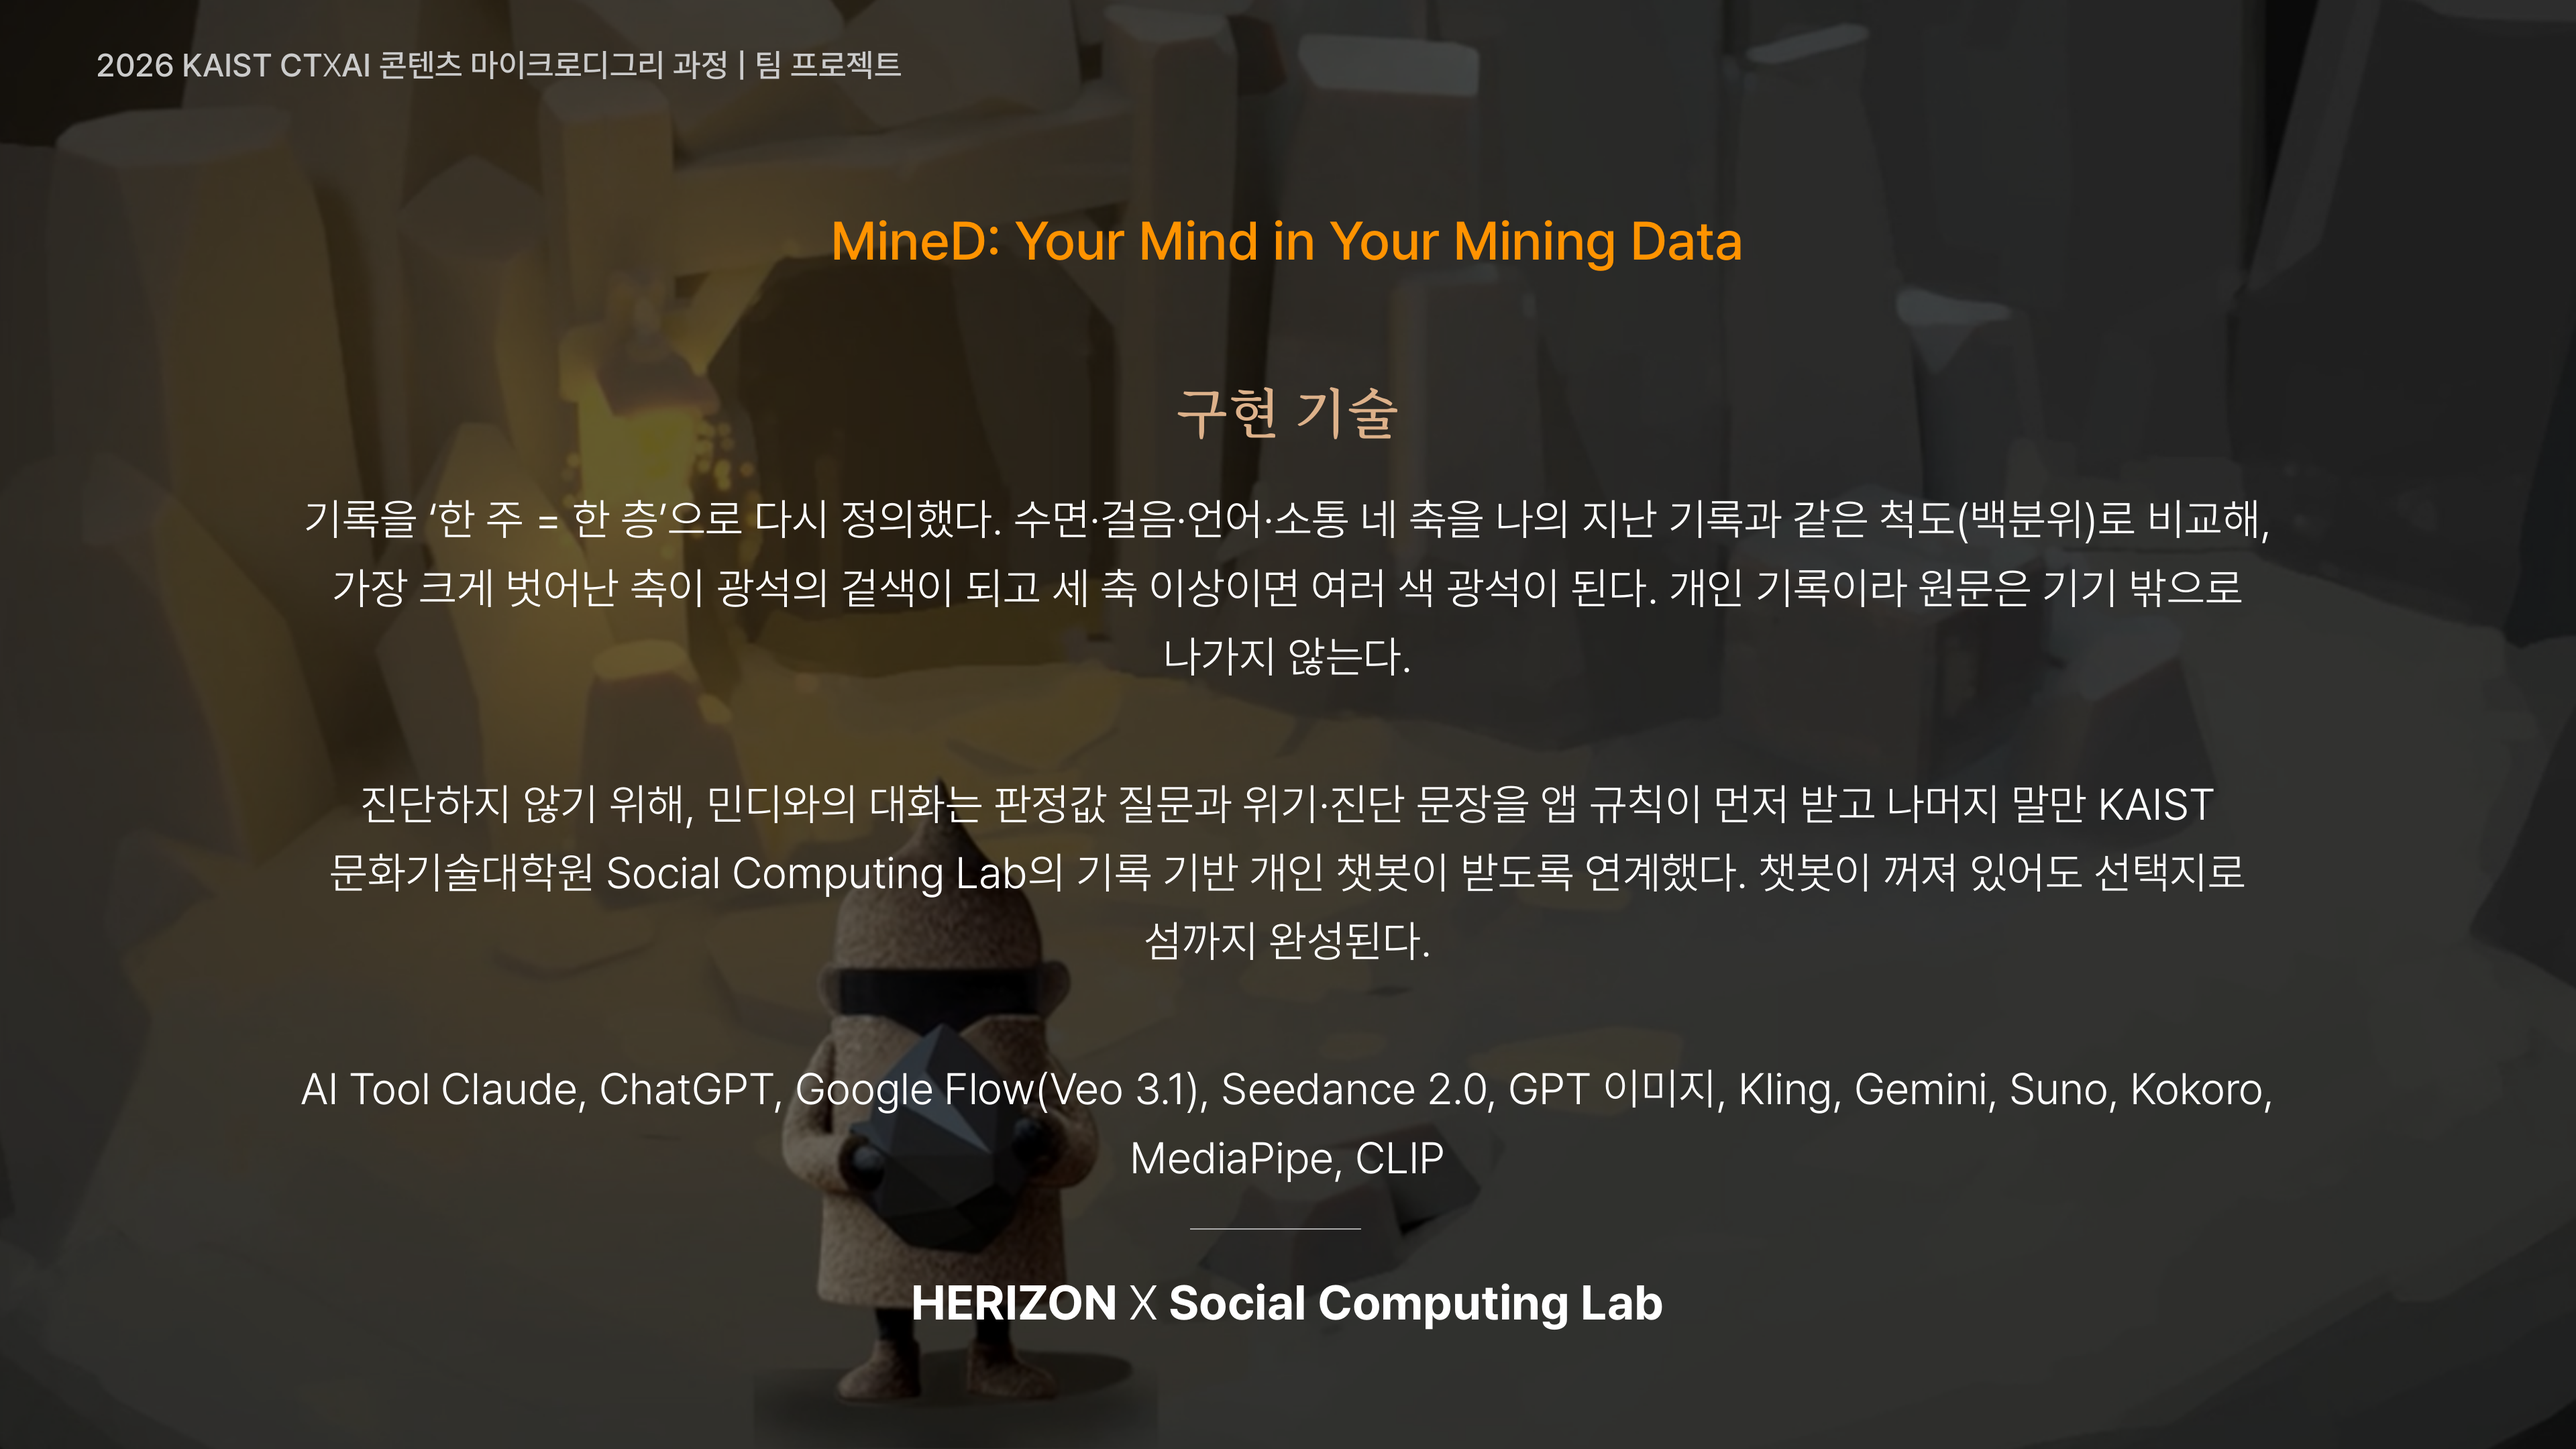
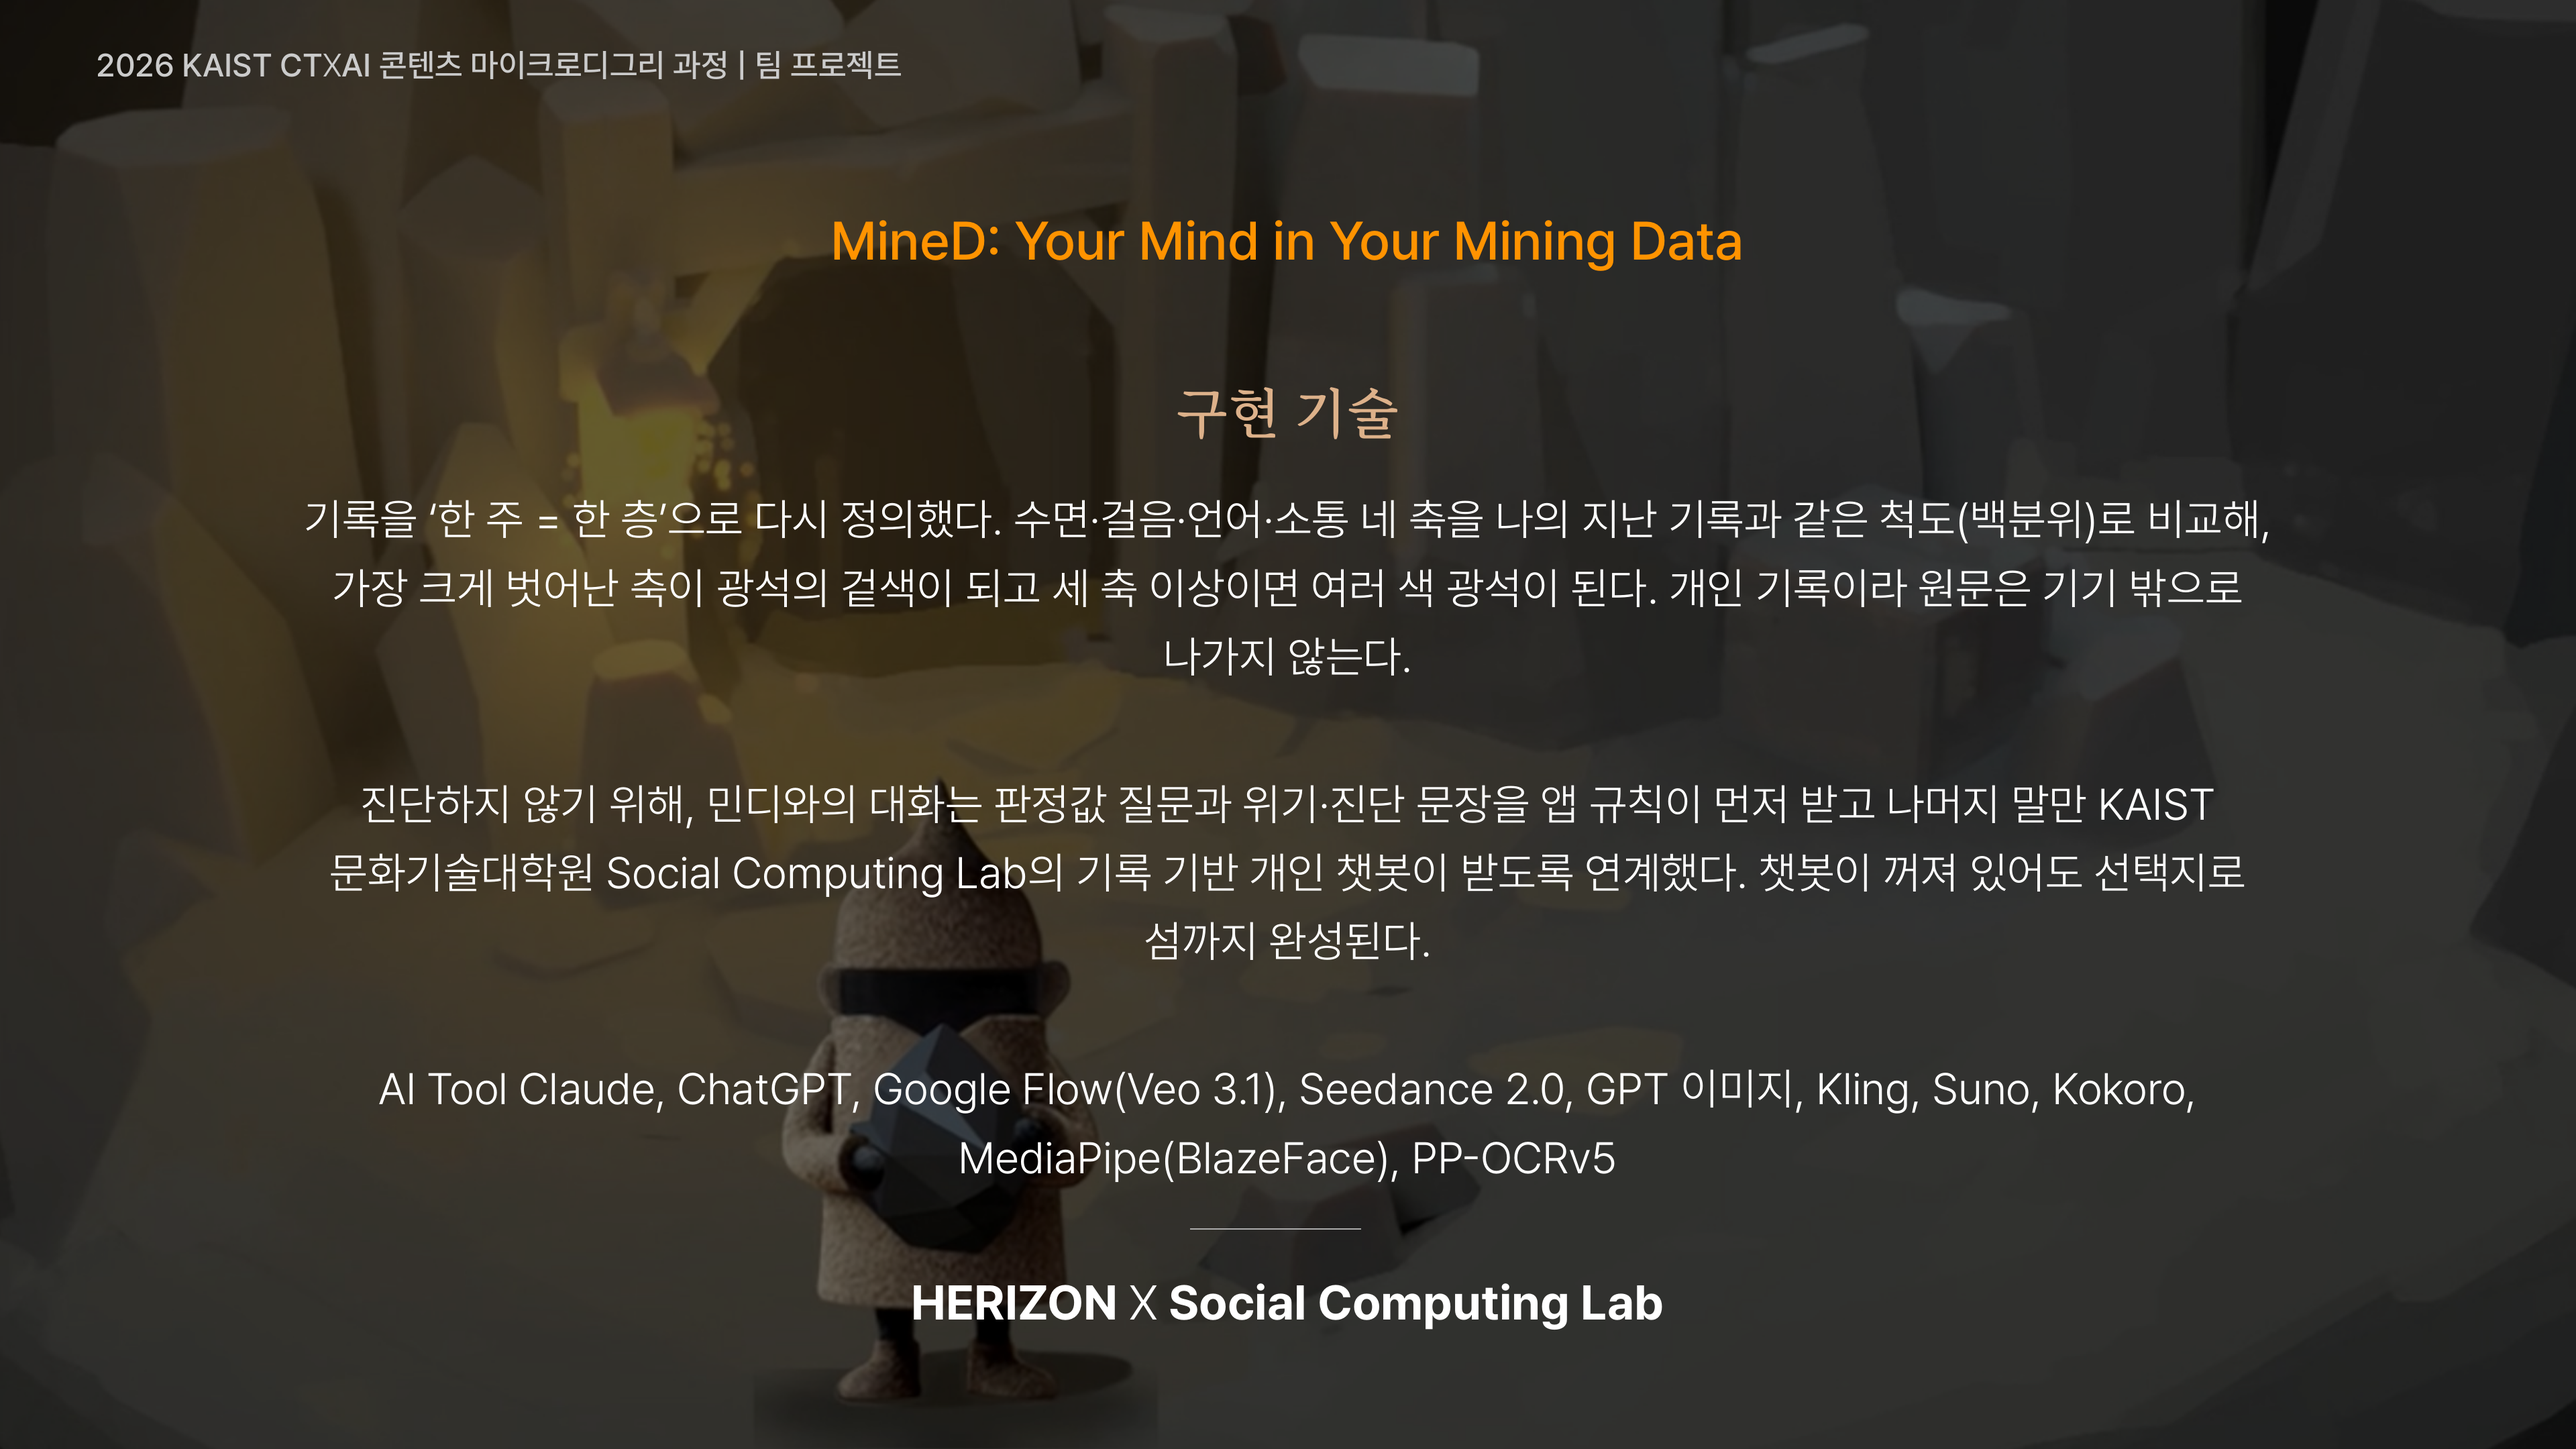
쇼케이스 v9: 섬 사운드 톤 정리(섬별 음량·EQ·압축), 음악방 배경음 겹침 줄임, AI Tool에서 Gemini·CLIP 제외
Claude-Session: https://claude.ai/code/session_01H6XxrjKT2zziYGGeC5Esr8

Changed region(s): [[0.125, 0.7444, 0.875, 0.8065]]

diff --git a/showcase/v0.5_kit/build5.py b/showcase/v0.5_kit/build5.py
@@ -242,6 +242,18 @@ def demo(out, DEMO=DEMO):
 ISLAND_CUTS = {'sky': [(4.4, 12.6), (30.5, 35.5)], 'jungle': [(6.0, 11.1), (27.0, 32.0)]}
 
 
+# 11/10 보별: 섬 소리가 거칠다 → 깔끔하고 평화로운 쉼. 생성 원음의 저역 웅웅·고역 치찰을 덜고,
+# 갑자기 튀는 효과음은 눌러, 모든 섬을 같은 낮은 크기(-30 LUFS)로. 음악(홈 곡)이 톤을 잡는다.
+# 맥 측정(11/10 v8 서브): 원음은 섬마다 약 -16 LUFS. 짧은 조각에 1패스 loudnorm은 게인이 흔들려서 고정 게인으로.
+ISLAND_EQ = {'sky': 'highpass=f=70,lowshelf=f=120:g=-4,',          # 66Hz 바람 드론 → 웅웅 덜기
+             'jungle': 'highshelf=f=6000:g=-6,lowpass=f=9000,',     # 빗소리 고음
+             'music': '', 'sea': '', 'onsen': ''}
+ISLAND_GAIN = {'music': -15.0, 'sea': -13.5, 'sky': -12.0, 'jungle': -14.5, 'onsen': -12.0}  # 약 -29~-30 LUFS
+def island_af(key):
+    return (f'highpass=f=60,{ISLAND_EQ.get(key, "")}volume={ISLAND_GAIN.get(key, -13.5)}dB,'
+            'acompressor=threshold=-36dB:ratio=2.5:attack=10:release=350,'   # 발소리·문소리 급등(+9~10dB) 누르기
+            'alimiter=limit=0.08:attack=3:release=250:level=disabled')
+ISL_LENS = []
 # ───────────────────────── 6 나의 섬 (섬 고르기 녹화에서 고른 음악방부터)
 def islands(spaces, out, cap=12.0, ixf=0.6, xf=0.8, min_piece=3.0):
     """spaces: [(파일, [(a,b),...], key)]. myspace.json의 구간 안에서만 자른다(구간 밖 컷이 섞이지 않게).
@@ -277,7 +289,7 @@ def islands(spaces, out, cap=12.0, ixf=0.6, xf=0.8, min_piece=3.0):
             vacc, aacc, t = f'iv{i}_{j}', f'ia{i}_{j}', t + (use[j][1] - use[j][0]) - ixf
         fc += (ov(n + i, 0.5, min(5.5, t - 0.3), 0.4) + f'[o{i}];[{vacc}][o{i}]overlay=0:0:shortest=1,'
                f'trim=0:{t:.3f},setpts=PTS-STARTPTS[t{i}];'
-               f'[{aacc}]atrim=0:{t:.3f},loudnorm=I=-24:LRA=6:TP=-4,aresample=48000[n{i}];')  # 섬마다 같은 크기로
+               f'[{aacc}]atrim=0:{t:.3f},{island_af(key)},aresample=48000[n{i}];')  # 섬마다 같은 크기·같은 톤으로
         lens.append(t)
         print(f'  섬 {key}: ' + ', '.join(f'{x:.1f}~{y:.1f}' for x, y in use) + f' → {t:.1f}초')
     acc, aacc, t = 't0', 'n0', lens[0]
@@ -286,6 +298,7 @@ def islands(spaces, out, cap=12.0, ixf=0.6, xf=0.8, min_piece=3.0):
         fc += f'[{aacc}][n{i}]acrossfade=d={xf}:c1=qsin:c2=qsin[m{i}];'
         acc, aacc, t = f'w{i}', f'm{i}', t + lens[i] - xf
     total = t
+    ISL_LENS[:] = [(sp[2], L) for sp, L in zip(spaces, lens)]
     fc += ov(2 * n, 0.4, min(6.5, total - 1.0), 0.5) + f'[isl];[{acc}][isl]overlay=0:0:shortest=1[ac2];'
     acc = 'ac2'
     fc += (f'[{acc}]fade=t=in:st=0:d=0.5,fade=t=out:st={total - 0.8:.2f}:d=0.8[v];'
@@ -359,10 +372,11 @@ def credit(out, d=7.0):
 
 
 def env_expr(base, ducks, ramp=1.2):
-    """음악 음량: base에서 시작해 구간마다 (a,b,v)로 부드럽게 바뀜."""
+    """음악 음량: base에서 시작해 구간마다 (a,b,v)로 부드럽게 바뀜.
+    11/10: 램프를 경계 가운데에 걸어, 맞닿은 두 구간 사이에서 base로 튀어 오르지 않게."""
     e = f'{base}'
     for a, b, v in ducks:
-        k = f'(clip((t-{a})/{ramp},0,1)*clip(({b}-t)/{ramp},0,1))'
+        k = f'(clip((t-{a})/{ramp}+0.5,0,1)*clip(({b}-t)/{ramp}+0.5,0,1))'
         e += f'+({v}-{base})*{k}'
     return e
 
@@ -454,11 +468,12 @@ def main():
         acc = st[s][1]
     ducks = [(st['03_story'][0], st['03_story'][1], 0.30),  # 이야기: 목소리·발소리 위로
              (st['05_demo'][0], st['05_demo'][1], 0.34),
-             (st['06_islands'][0], st['06_islands'][1], 0.14),  # 섬 영상은 제 소리가 있으니 낮게
+             (st['06_islands'][0], st['07_end'][0] + 0.8, 0.30),  # 11/10: 섬 원음은 낮추고 음악이 쉼의 톤을 잡게(여운까지 이어서)
              (st['07_end'][0] + 0.8, st['07_end'][0] + 5.5, 0.26)]  # 오늘의 한마디
-    if 'main' == o.cut:
-        ducks[2] = (st['06_islands'][0], st['06_islands'][1], 0.22)
-    vol = env_expr(0.46, ducks)
+    if ISL_LENS and ISL_LENS[0][0] == 'music':  # 음악방 원음에 LP 음악 → 두 음악이 겹치지 않게 배경음악을 거의 끔
+        a0 = st['06_islands'][0]
+        ducks[2:3] = [(a0, a0 + ISL_LENS[0][1], 0.06), (a0 + ISL_LENS[0][1], st['07_end'][0] + 0.8, 0.30)]
+    vol = env_expr(0.46, ducks, ramp=1.6)
     run(['-i', 'seg/joined.mp4', '-i', f'{A}/mus_home.mp3', '-i', f'{A}/mus_home.mp3', '-filter_complex',
          f'[1:a][2:a]acrossfade=d=3,aresample=48000,atrim=0:{T},'
          f"volume='{vol}':eval=frame,afade=t=in:st=0:d=1.5,afade=t=out:st={T - 2.5:.2f}:d=2.5[m];"

diff --git a/showcase/v0.5_kit/layout/fill.py b/showcase/v0.5_kit/layout/fill.py
@@ -69,7 +69,7 @@ TECH_S = '한 주를 한 층으로. 기록은 기기 안에서만 읽고, 달랐
 TECH_L = '기록을 ‘한 주 = 한 층’으로 다시 정의했다. 수면·걸음·언어·소통 네 축을 나의 평소와 비교해 달랐던 주는 광석, 달랐던 축은 결 색으로 보여 준다. 원문은 기기 밖으로 나가지 않는다. KAIST 문화기술대학원 Social Computing Lab은 기록 기반 개인 챗봇을 개발해, 민디와의 대화에 연계하도록 설계했다.'
 TECH_XL = ['기록을 ‘한 주 = 한 층’으로 다시 정의했다. 수면·걸음·언어·소통 네 축을 나의 지난 기록과 같은 척도(백분위)로 비교해, 가장 크게 벗어난 축이 광석의 겉색이 되고 세 축 이상이면 여러 색 광석이 된다. 개인 기록이라 원문은 기기 밖으로 나가지 않는다.',
            '진단하지 않기 위해, 민디와의 대화는 판정값 질문과 위기·진단 문장을 앱 규칙이 먼저 받고 나머지 말만 KAIST 문화기술대학원 Social Computing Lab의 기록 기반 개인 챗봇이 받도록 연계했다. 챗봇이 꺼져 있어도 선택지로 섬까지 완성된다.']
-AITOOL = 'Claude, ChatGPT, Google Flow(Veo 3.1), Seedance 2.0, GPT 이미지, Kling, Gemini, Suno, Kokoro, MediaPipe, CLIP'
+AITOOL = 'Claude, ChatGPT, Google Flow(Veo 3.1), Seedance 2.0, GPT 이미지, Kling, Suno, Kokoro, MediaPipe(BlazeFace), PP-OCRv5'
 
 def tech_box(slide, body):
     sh = find(slide, '이 부분에는')
